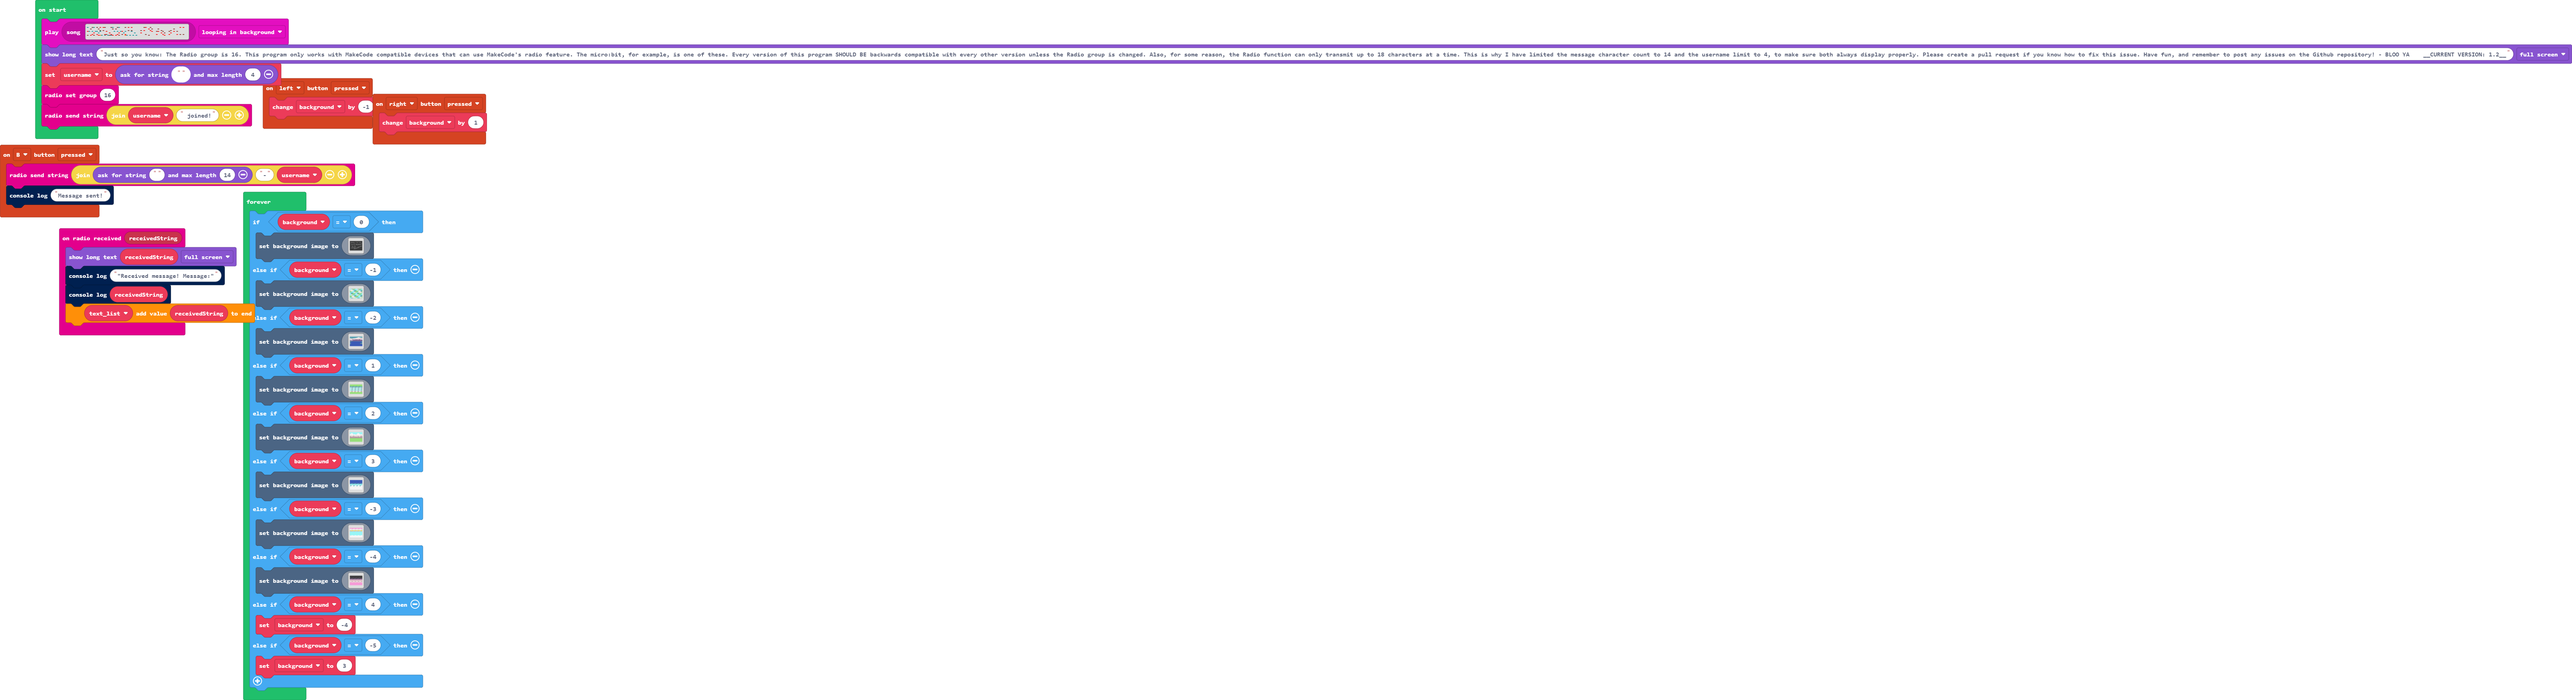
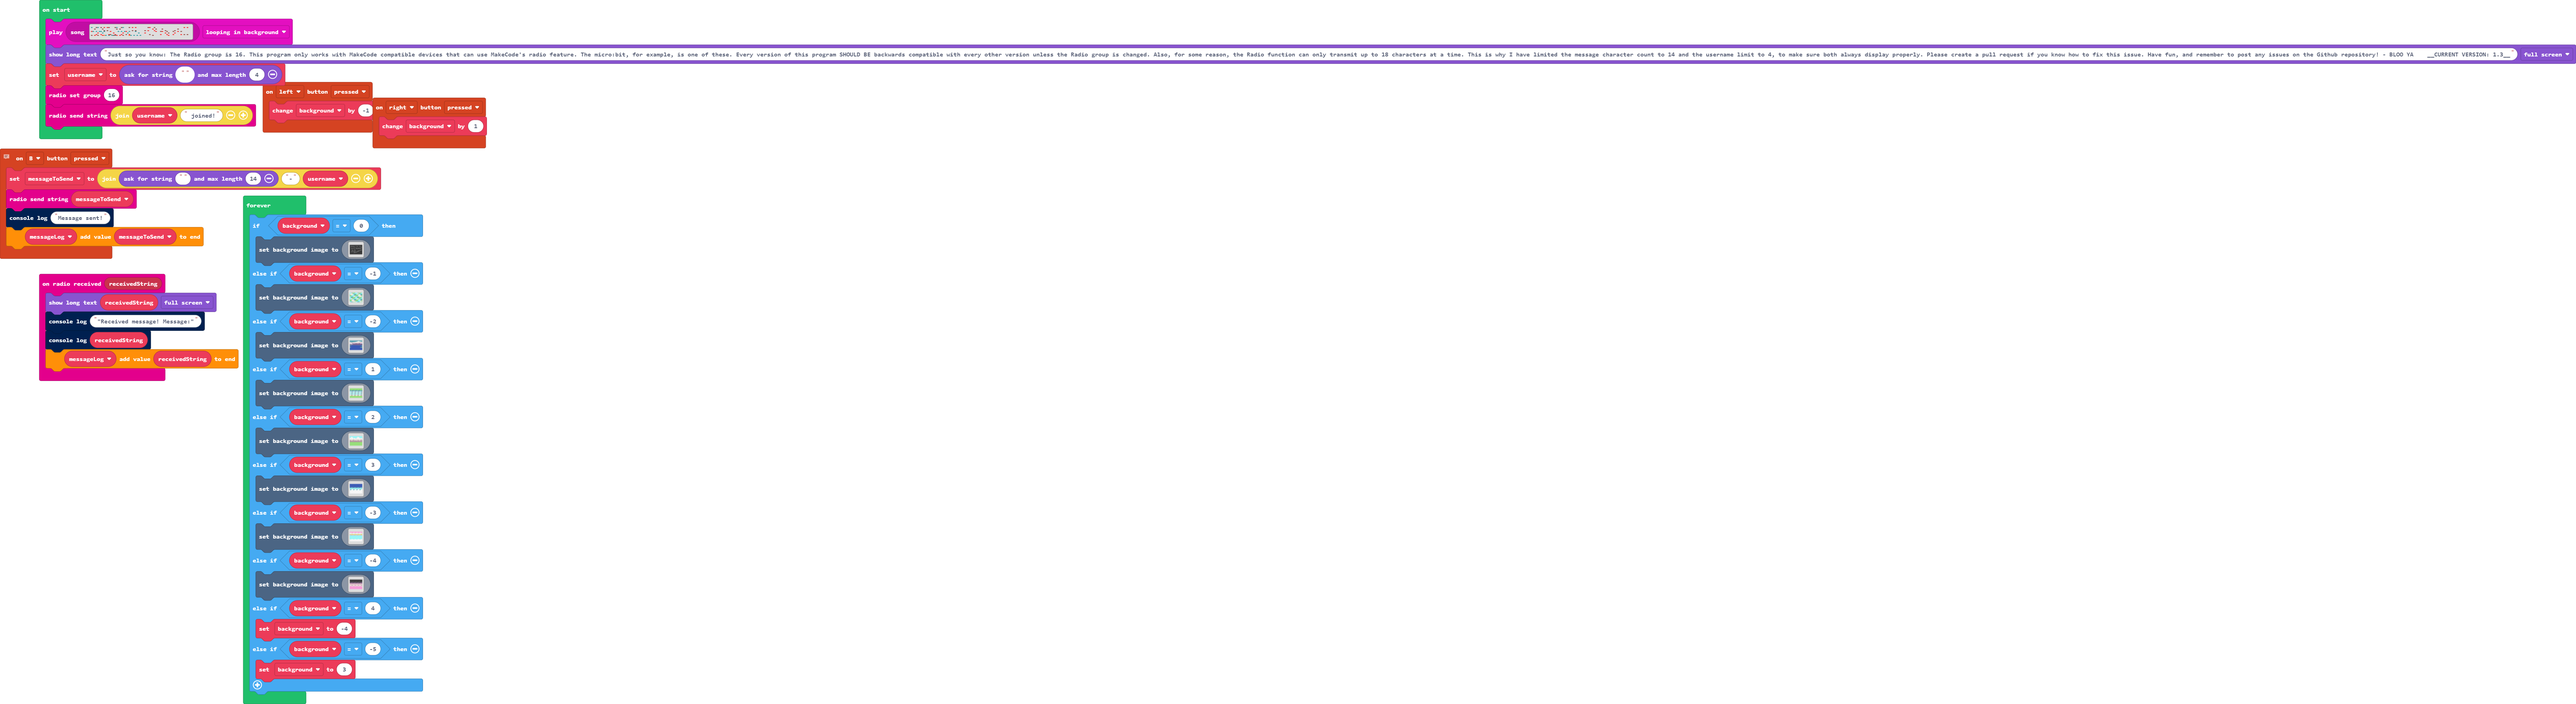
Readable message logs and a very angry comment.

Changed region(s): [[0.0, 0.0, 0.9959, 0.9546]]

diff --git a/main.ts b/main.ts
@@ -1,6 +1,9 @@
+// I hate GitHub. It forced me to delete ALL MY PROGRESS made today (which was a lot!) because my school blocked it, which somehow caused a merge issue? Even though I haven't tried to commit until today. I hope whoever wrote the GitHub code that causes that to happen has a really bad day. I lost hours of work because of that guy.
 controller.B.onEvent(ControllerButtonEvent.Pressed, function () {
-    radio.sendString("" + game.askForString("", 14) + "-" + username)
+    messageToSend = "" + game.askForString("", 14) + "-" + username
+    radio.sendString(messageToSend)
     console.log("Message sent!")
+    messageLog.push(messageToSend)
 })
 controller.left.onEvent(ControllerButtonEvent.Pressed, function () {
     background += -1
@@ -9,16 +12,17 @@ controller.right.onEvent(ControllerButtonEvent.Pressed, function () {
     background += 1
 })
 radio.onReceivedString(function (receivedString) {
-    let text_list: string[] = []
     game.showLongText(receivedString, DialogLayout.Full)
     console.log("\"Received message! Message:\"")
     console.log(receivedString)
-    text_list.push(receivedString)
+    messageLog.push(receivedString)
 })
 let background = 0
+let messageLog: string[] = []
+let messageToSend = ""
 let username = ""
 music.play(music.createSong(assets.song`tetris`), music.PlaybackMode.LoopingInBackground)
-game.showLongText("Just so you know: The Radio group is 16. This program only works with MakeCode compatible devices that can use MakeCode's radio feature. The micro:bit, for example, is one of these. Every version of this program SHOULD BE backwards compatible with every other version unless the Radio group is changed. Also, for some reason, the Radio function can only transmit up to 18 characters at a time. This is why I have limited the message character count to 14 and the username limit to 4, to make sure both always display properly. Please create a pull request if you know how to fix this issue. Have fun, and remember to post any issues on the Github repository! - BLOO YA    __CURRENT VERSION: 1.2__", DialogLayout.Full)
+game.showLongText("Just so you know: The Radio group is 16. This program only works with MakeCode compatible devices that can use MakeCode's radio feature. The micro:bit, for example, is one of these. Every version of this program SHOULD BE backwards compatible with every other version unless the Radio group is changed. Also, for some reason, the Radio function can only transmit up to 18 characters at a time. This is why I have limited the message character count to 14 and the username limit to 4, to make sure both always display properly. Please create a pull request if you know how to fix this issue. Have fun, and remember to post any issues on the Github repository! - BLOO YA    __CURRENT VERSION: 1.3__", DialogLayout.Full)
 username = game.askForString("", 4)
 radio.setGroup(16)
 radio.sendString("" + username + " joined!")
